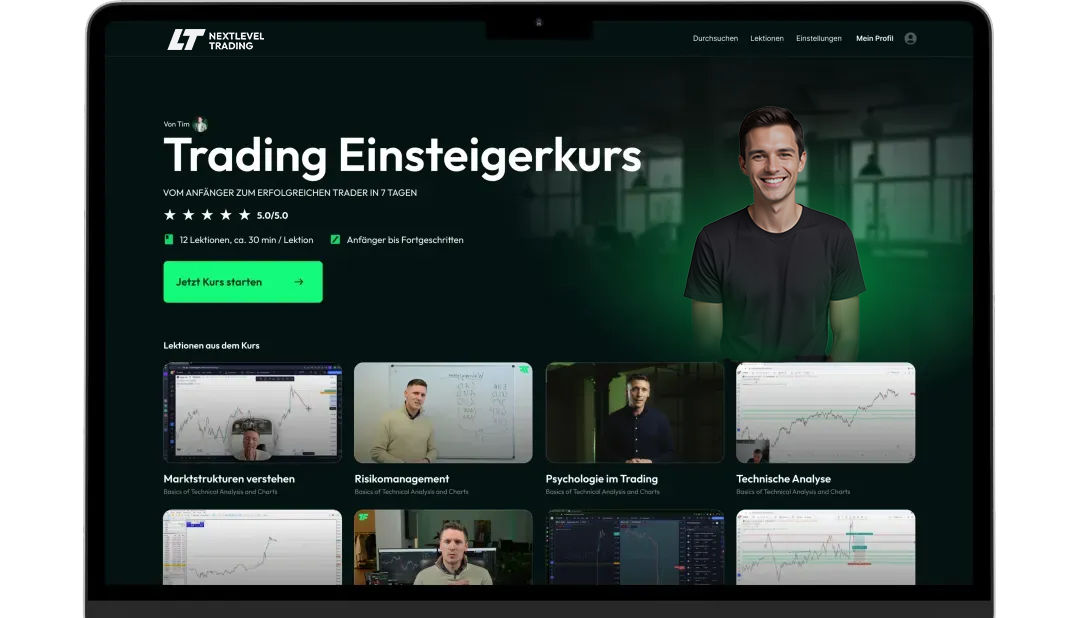
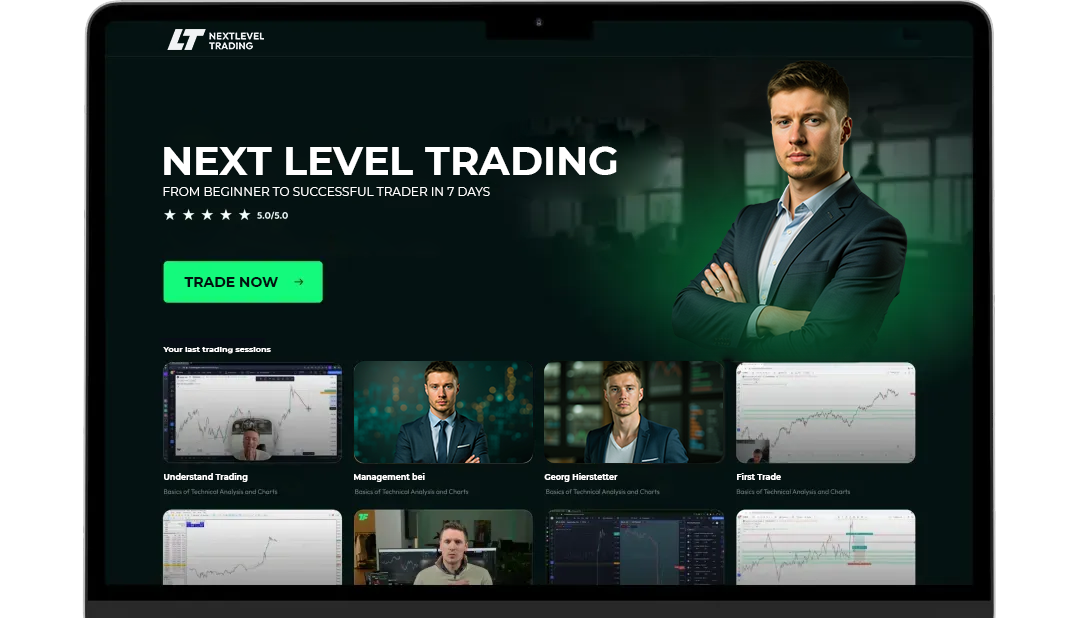
update images

diff --git a/app/components/Home.jsx b/app/components/Home.jsx
@@ -180,7 +180,7 @@ function Home() {
 <div className="relative z-10 mt-[2rem] sm:mt-[3rem] fadeInUp flex justify-center" style={{ animationDelay: "0.9s" }}>
   <img
     className="images1 h-auto object-cover relative w-[50%] sm:w-[60%] md:w-[70%] lg:w-[70%] xl:w-[60%] 2xl:w-[50%]" // Adjusted width for mobile
-    src="/images/image11.png"
+    src="/images/image1.png"
     alt="New Image"
     loading="lazy"
   />
@@ -474,7 +474,7 @@ function Home() {
     <span className="block text-[28px] tracking-[.35px] leading-[100%] font-[600] mt-[0.5rem] relative z-10">{texts.online?.onTeam}</span>
     
     <img
-      src="/images/image12.png"
+      src="/images/image3.png"
       alt=""
       className=" w-auto h-[200px] object-cover z-0 bg-contain bg-repeat ml-[-2rem] md:mr-2 mt-[-2.3rem] md:mt-[-6.3rem] md:w-[820.33px] md:h-[300px]"
       style={{ backgroundImage: '100%' }}
@@ -692,7 +692,7 @@ function Home() {
 <div className="part5 w-full h-auto bg-[#041212] rounded-[20px] flex flex-col lg:flex-row justify-center items-center mt-[4rem] md:mt-[6rem] mb-10 px-4 lg:px-0">
   
   <div className="left-img w-full lg:w-[34rem] mt-[1.5rem] h-auto lg:mt-[6rem] mb-[2rem] lg:mb-[6rem]">
-    <img src="/images/image.png" alt="dada" loading='lazy' className="w-full lg:w-auto" />
+    <img src="/images/image4.png" alt="dada" loading='lazy' className="w-full lg:w-auto" />
   </div>
 
   <div className="hidden md:block text text-[#ffff] lg:mt-5 lg:ml-[7rem]">
